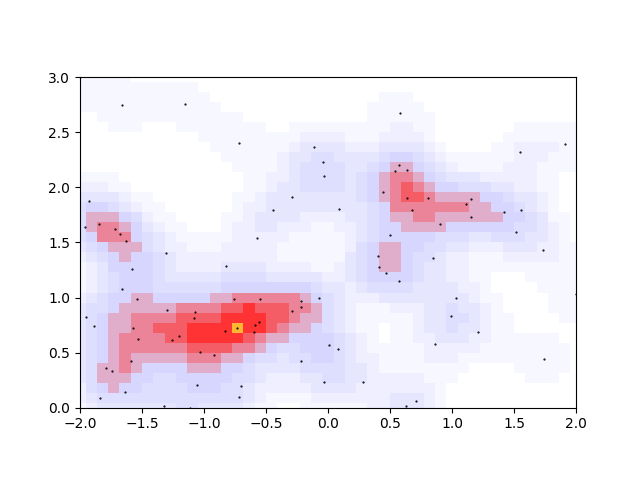
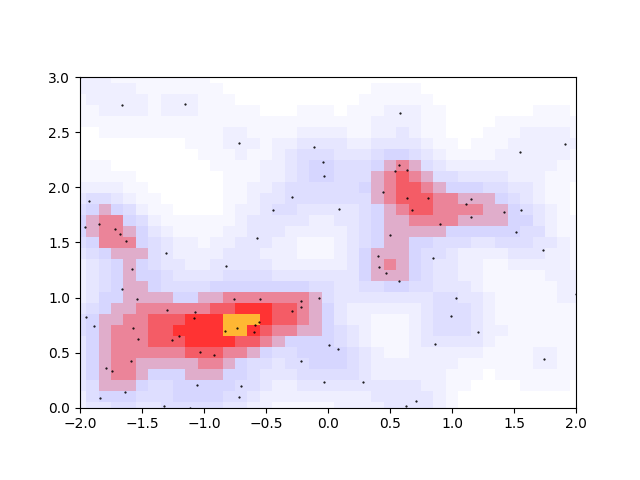
Writing 2024_04_08

Changed region(s): [[0.125, 0.4062, 0.5, 0.8438], [0.5625, 0.3125, 0.8125, 0.5938]]

diff --git a/_pages/2024_04_08__clustering_by_density.md b/_pages/2024_04_08__clustering_by_density.md
@@ -5,6 +5,10 @@ permalink: /blog/2024-04-08--2D-Clusters
 author_profile: true
 ---
 
+
+
+<h6 align="right">Reading time: 20 minutes</h6> 
+
 *Where'd you get the idea, Matt?*
 
 My wife works as a psychology researcher studying vision and its interplay with the other senses. 
@@ -171,31 +175,33 @@ density than its four nearest neighbours.
 
 The green dots here represent all the local maxima. There are a few issues, however, with this peak-finding
 prescription.
-1. See how the upper-right overdensity has two nearly adjacent maxima? They should be part of the same 
+1. See how the orange overdensity has two nearly adjacent maxima? They should be considered to be part of the same 
 overdensity region
-2. The bottom-left green peak should be part of the overdensity region connected to the orange peak.
-3. There is no information about the size or orientation of an overdensity region 
-The lower-left overdensity is clearly longer than the upper-right peak, and it's
-tilted a little. Well if we also disretize the density to, say, the 11 decimal-rounded intervals 
-($$0<\rho<0.05, 0.05<\rho<0.15, ..., 0.95<\rho<1),
-then we can count all contiguous pixels that lie in the same interval as the peak as being in the peak's "cluster",
-and we should be done!
+2. The bottom-left green peak should be part of the overdense region connected to the orange peak.
+3. There is no information about the size or orientation of an overdensity region
 
+The first two issues are a matter of unfortunate noise in the density distribution, and the last issue 
+should come down to being able to
+identify which pixels near a peak are also close in density to that peak. These 3 issues can be solved at once 
+by discretizing the allowable densities. Choosing the 11 decimal-rounded intervals, we get
+($$0<\rho<0.05, 0.05<\rho<0.15, ..., 0.95<\rho<1),
 <img src="https://mattingliswhalen.github.io/images/2024_04_08/heatmap_coarse_discretized.png">
 
-Once I realized I wanted to work with a coarse-grained heatmap, the first mistake I made was 
-Numerical
-maximization is a notoriously difficult problem to solve in general: algorithms
-can become stuck in local minima, fai
+This seems to solve the 3 issues enumerated above! The original two orange peaks have merged, the spurious 
+bottom-left peak no longer looks like a peak, and the size of the merged peak regions give a rough size and orientation
+of the cluster.
+
+Okay but now that we've discretized in density, a simple nearest-neighbour approach to finding maxima won't work. 
+And I quickly discovered that if a pixel is a peak in both its row and its column, that does not mean that it is 
+part of an overdensity peak. For example, consider this pixel here
 
 
-Technically speaking, we're treating
-the 
 
 After asking about typical practices in my wife's lab, she said that her colleagues typically use R or Matlab to 
 program their analyses, but that Matlab is being phased out due to licensing fees. 
 So I jumped right in to solving the problem, but also to make the solution available everywhere by making it
 an installable R package.
 
-To protect the data of yet-to-be-published work, I've created a dummy dataset that can be downloaded
-I was recently asked to look at a dataset containing the locations of 
+
+
+Tags: #peak-finding #R #ClusterByDensity #clustering 
